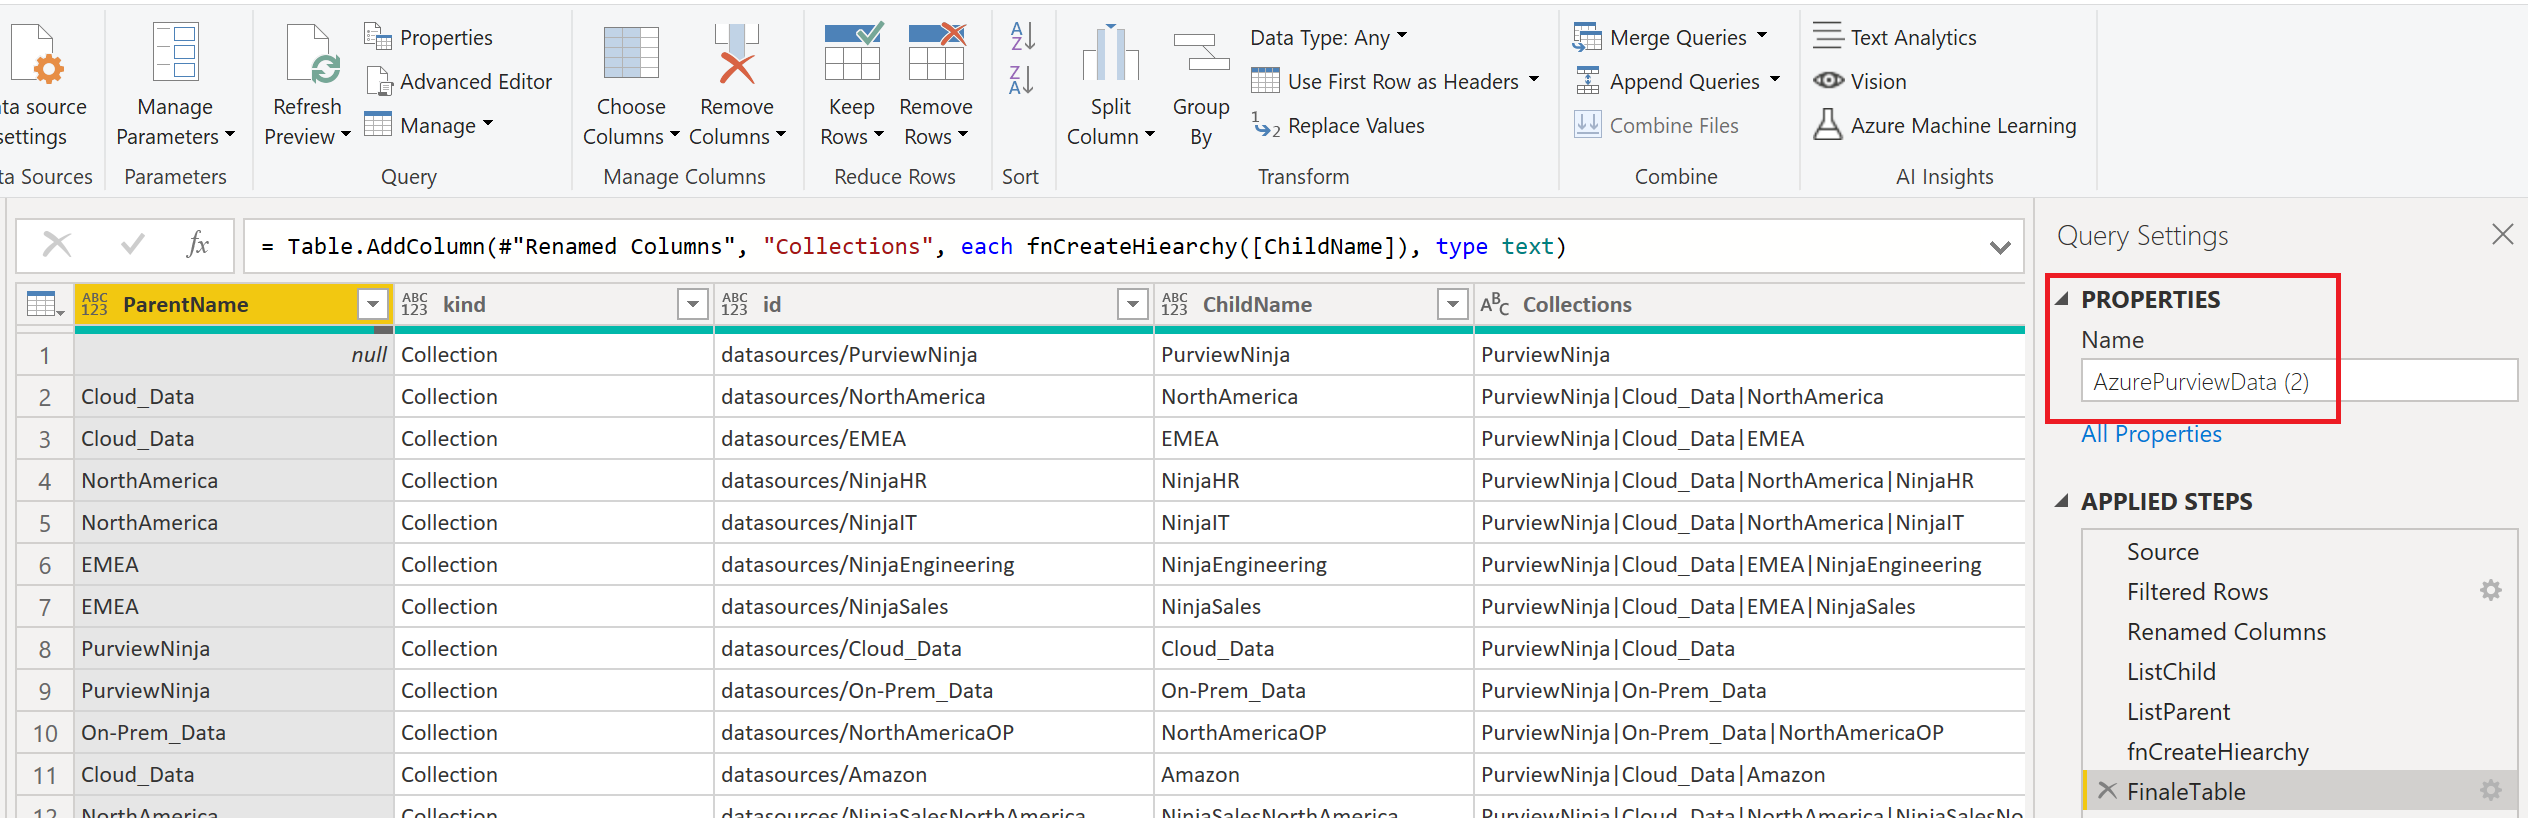
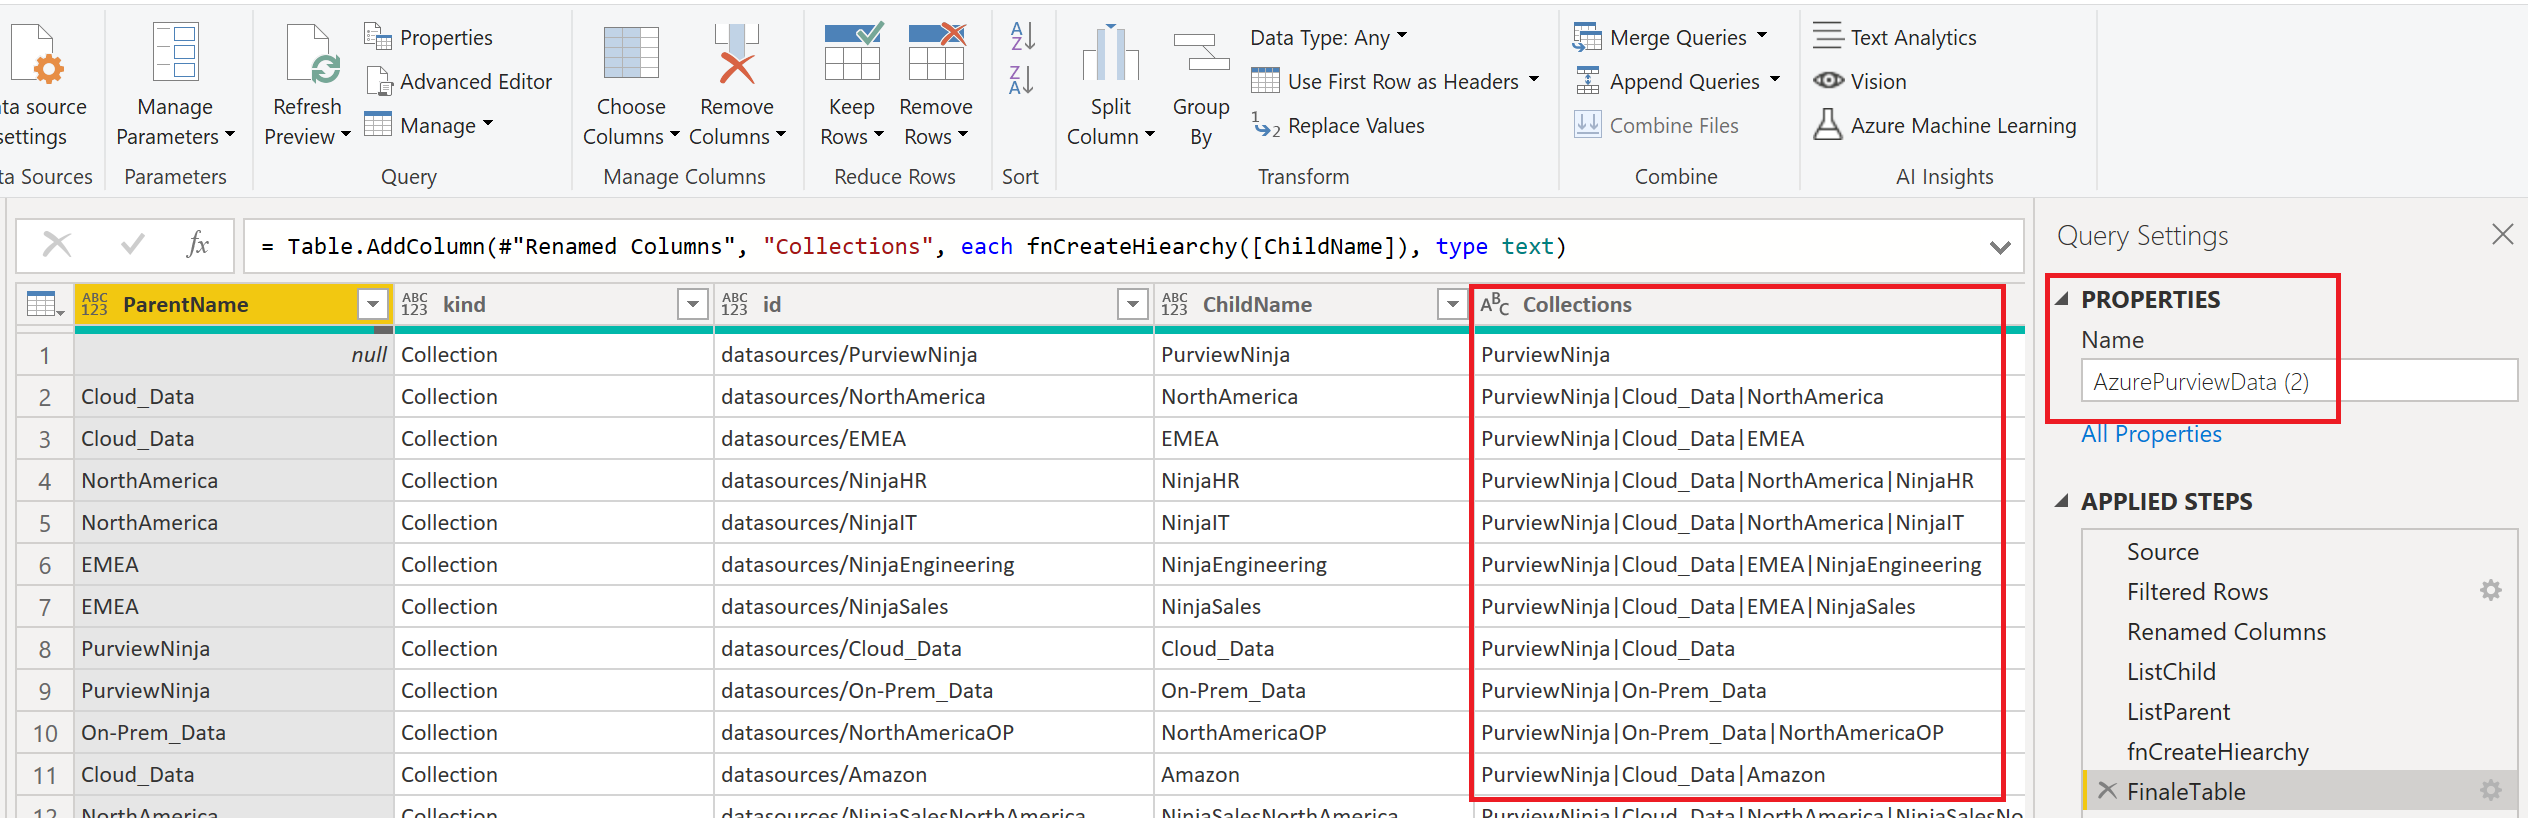
v0

Changed region(s): [[0.5625, 0.9474, 0.8125, 1.0], [0.5625, 0.3362, 0.8125, 0.3667]]

diff --git a/Readme.md b/Readme.md
@@ -201,7 +201,11 @@ Ci-dessous une illustration après la copie du script M:
 
 ![](Pictures/020.png)
 
-Cliquez sur le bouton **"Done"**. Vous devriez obtenir le résultat suivant. Pensez à renommer votre requête.
+Cliquez sur le bouton **"Done"**. Vous devriez obtenir le résultat suivant. Notez la nouvelle colonne **"Collections"** qui va représenter les relations Parent-Enfants de votre organigramme.
+
+Pensez à renommer votre requête.
 
 ![](Pictures/021.png)
+
+Maintenant que vous avez la matière de base, vous pouvez continuer à designer votre rapport comme bon vous semble. Par exemple, utiliser la fonctionalité **"Split Column by delimiter"** afin de créer une colone par enfant de votre organigramme, pour les utiliser ensuite avec le visuel **"Decomposition tree"** (Comme je l'ai fait dans le rapport quwe je vous livre en exemple).
 
